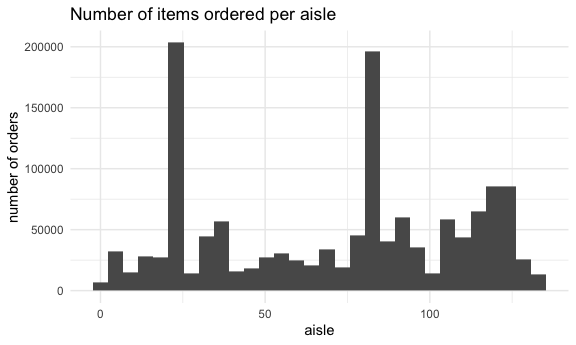
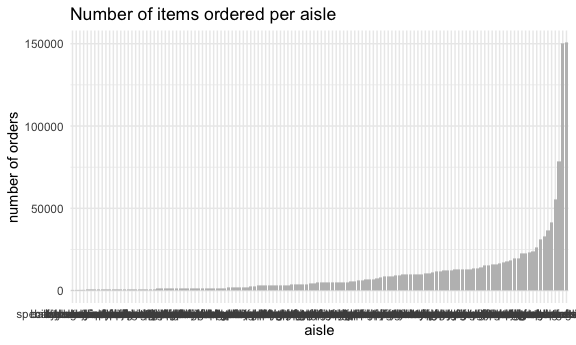
Plot one generating but not with 10,000 cutoff, need to adjust code (thought filter would do it?)

Changed region(s): [[0.0312, 0.087, 1.0, 0.9275]]

diff --git a/p8105_hw3_lcp2148.md b/p8105_hw3_lcp2148.md
@@ -123,17 +123,28 @@ nrow(n_aisles)
     ## [1] 134
 
 ``` r
-##instacart %>%  
-##  filter(
-##    n_aisle > 100
-##  )  %>%  
-##  ggplot(aes(x = aisle)) +
-##           geom_histogram() +
-##           labs(
-##             title = "Number of items ordered per aisle",
-##             x = "aisle",
- ##            y = "number of orders"
-   ##        )
+insta_plot1 = n_aisles %>%  
+  filter(
+    n_aisles > 10000)  %>%  
+  mutate(
+    aisle = factor(aisle),
+    aisle = fct_reorder(aisle, n)
+  ) %>%  
+  ggplot(aes(x = aisle, y = n)) +
+           geom_bar(stat = "identity", fill = "grey") +
+           labs(
+             title = "Number of items ordered per aisle",
+             x = "aisle",
+             y = "number of orders"
+           )
+         
+  insta_plot1
+```
+
+<img src="p8105_hw3_lcp2148_files/figure-gfm/instacart_not_inline-1.png" width="90%" />
+
+``` r
+  ggsave("instacart_plot1_aisles.pdf", insta_plot1, width = 8, height = 5)
 ```
 
 Make a table showing the three most popular items in each of the aisles
